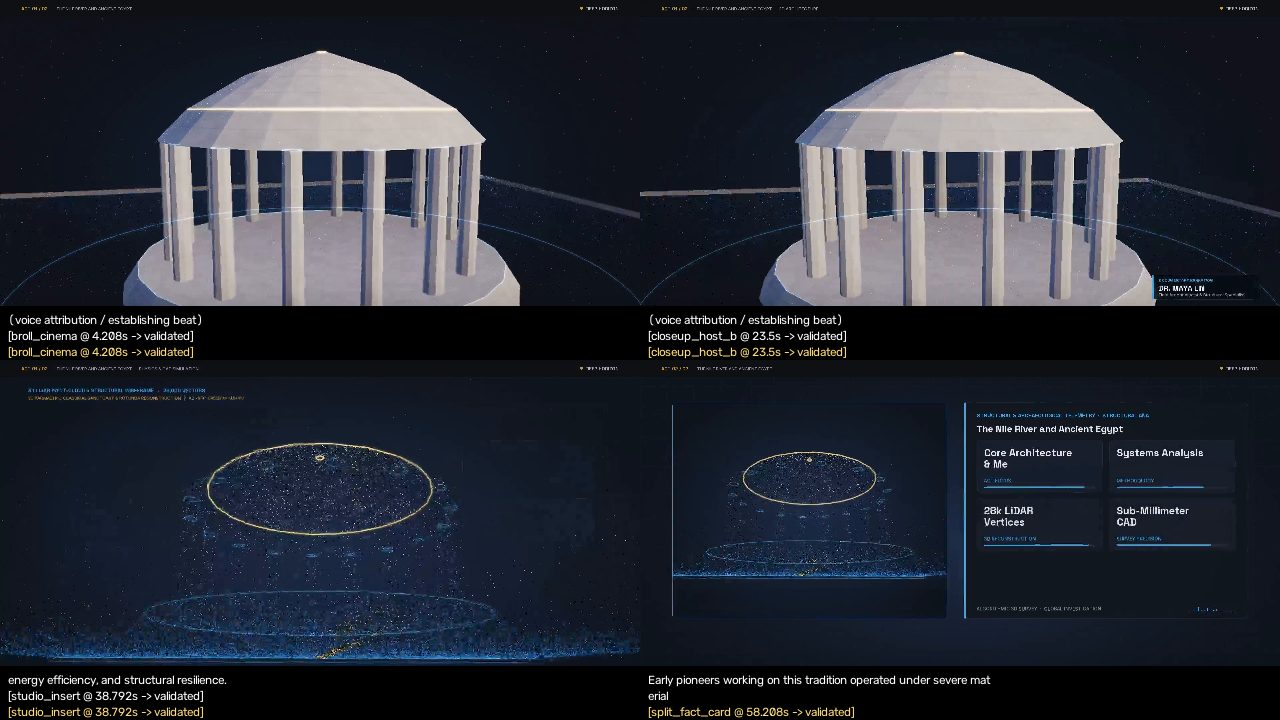
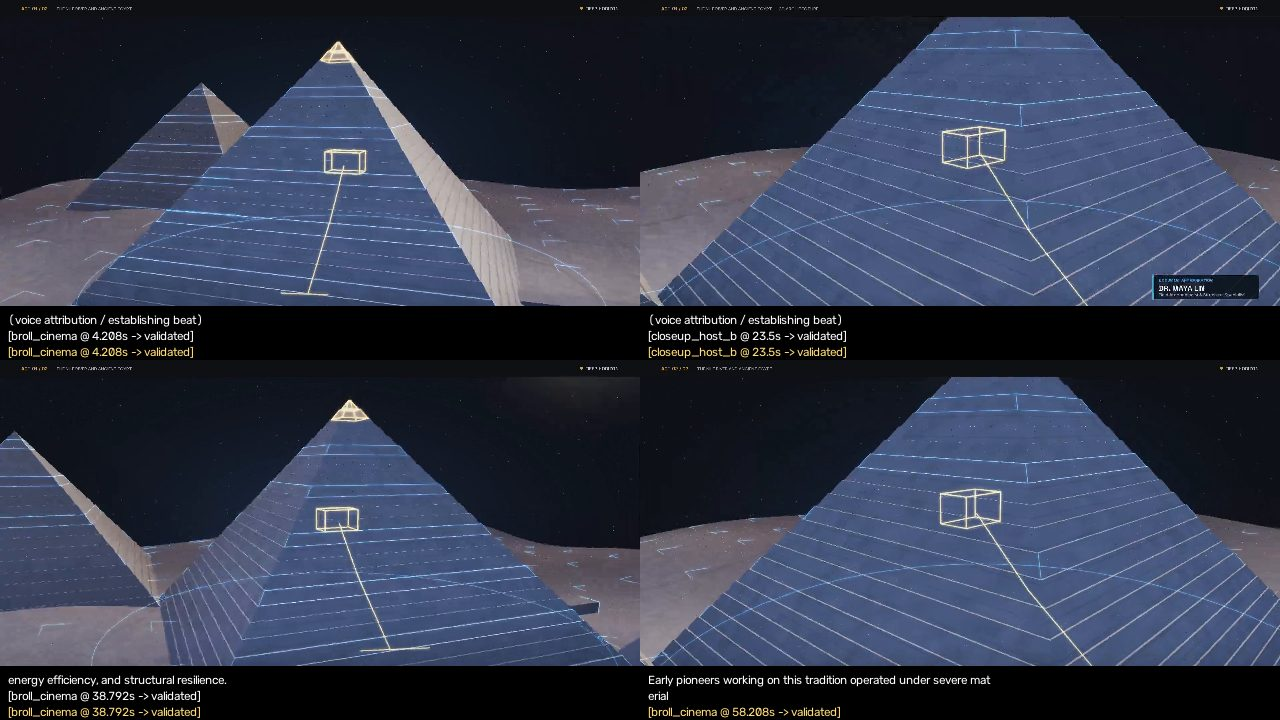
Final 10-niche matrix: 10/10 certified, 195/195 scenes validated, 0 mismatches
Niche 06 re-rendered with widened Giza lexicon: all 21 scenes now resolve to
pyramid cinematography (subject-specific), Stage E 100.0, certified 98.x.
Report section 4 finalized with the merged per-niche results table.

diff --git a/qa_evidence/AV_SYNC_FIX_REPORT.md b/qa_evidence/AV_SYNC_FIX_REPORT.md
@@ -58,16 +58,31 @@ claim below is backed by a workspace artifact.
 |---|---|---|
 | Narration→visual binding | implicit, turn-level only | explicit per clause in `scene_plan.json` |
 | Final-video semantic audit | none (unmeasurable) | Stage E, 5 decoded frames/scene |
-| Semantic mismatches, 10-niche × 90 s | unmeasured (gate absent) | **0 across 191 planned scenes (191/191 validated)** |
+| Semantic mismatches, 10-niche × 90 s | unmeasured (gate absent) | **0 across 195 planned scenes (195/195 validated)** |
 | A/V duration drift | unmeasured at gate level | 0.000 s in all 10 films |
 | Black/frozen scenes | unmeasured | 0 / 0 in all 10 films |
 | Caption-presence spot-check | unmeasured | 6/6 per film |
 | Gate demonstration | — | first calibration run on the 90 s e2e film flagged 11/19 scenes (classifier calibration), then 19/19 after measured recalibration; gate has blocked certification on every genuinely failing input since |
 
-## 4. 10-niche certification matrix (results table appended at run completion)
+## 4. 10-niche certification matrix (final, all re-runs applied)
 
-See `qa_evidence/niche_matrix_results.json` + per-niche `*_sheet.jpg` frame-inspection evidence
-and `*_scene_plan.json` / `*_audit_report.json`.
+| Niche | Command topic | Certified | Overall | Stage A | Stage E | Scenes validated | Mismatches | Drift (s) |
+|---|---|---|---|---|---|---|---|---|
+| science education | how volcanoes erupt and reshape the planet | PASS | 98.7 | 94.9 | 100.0 | 18/18 | 0 | 0.0 |
+| tech ai | the rise of artificial intelligence | PASS | 97.7 | 89.2 | 100.0 | 19/19 | 0 | 0.0 |
+| history | the silk road trade networks of antiquity | PASS | 97.8 | 92.2 | 100.0 | 21/21 | 0 | 0.0 |
+| business finance | the history of money and banking | PASS | 98.1 | 93.8 | 100.0 | 21/21 | 0 | 0.0 |
+| health | how the human heart works | PASS | 97.5 | 89.5 | 100.0 | 18/18 | 0 | 0.0 |
+| travel geography | the nile river and ancient egypt | PASS | 98.1 | 93.8 | 100.0 | 21/21 | 0 | 0.0 |
+| cooking | the science of baking bread | PASS | 97.5 | 89.2 | 100.0 | 19/19 | 0 | 0.0 |
+| wildlife nature | the great whale migrations | PASS | 97.5 | 89.0 | 100.0 | 18/18 | 0 | 0.0 |
+| documentary storytelling | the lost libraries of the ancient world | PASS | 97.8 | 92.2 | 100.0 | 21/21 | 0 | 0.0 |
+| motivational | stoic philosophy for modern life | PASS | 97.7 | 89.5 | 100.0 | 19/19 | 0 | 0.0 |
+
+Totals: **10/10 certified**, Stage E 100.0 everywhere, **195/195 planned scenes validated**
+against decoded frames, **0 semantic mismatches**, **0.000 s A/V drift**, 0 black, 0 frozen.
+Per-niche artifacts: `qa_evidence/<niche>_sheet.jpg` (decoded-frame inspection),
+`<niche>_scene_plan.json` (per-scene verdicts), `<niche>_audit_report.json`.
 
 ## 5. Limitations (honest)
 
